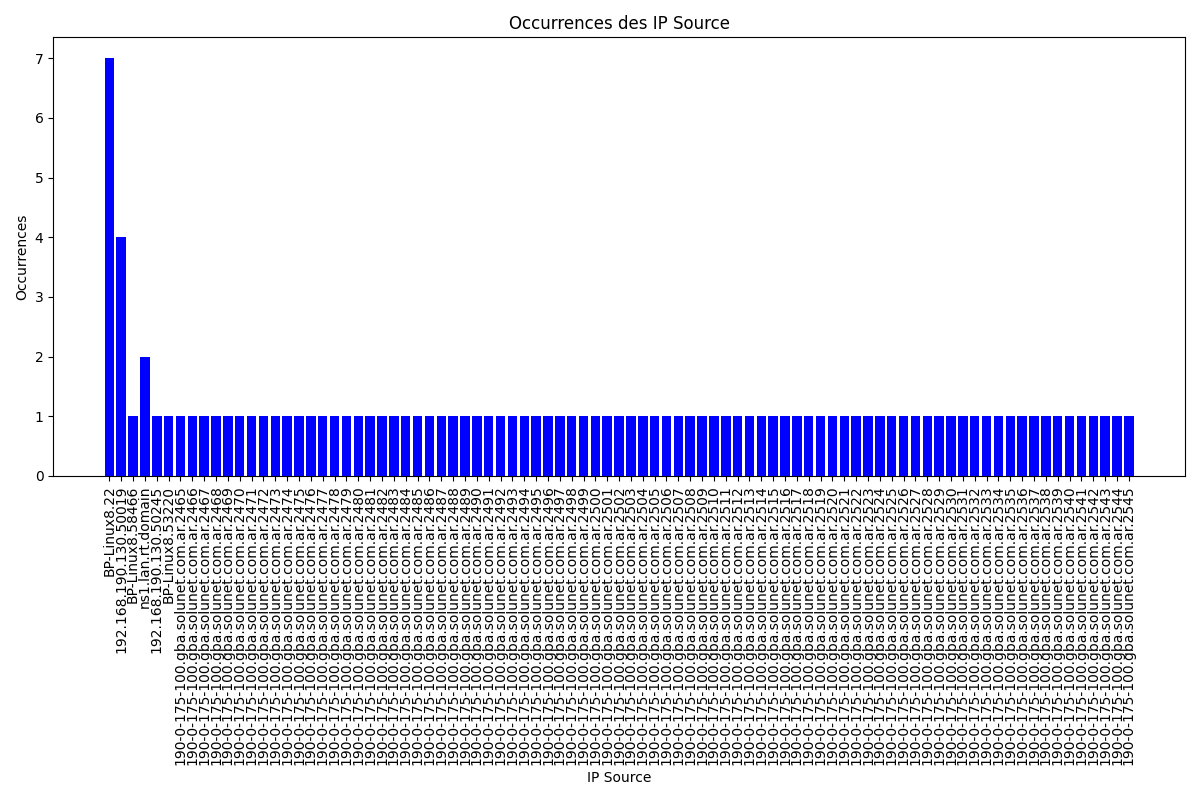
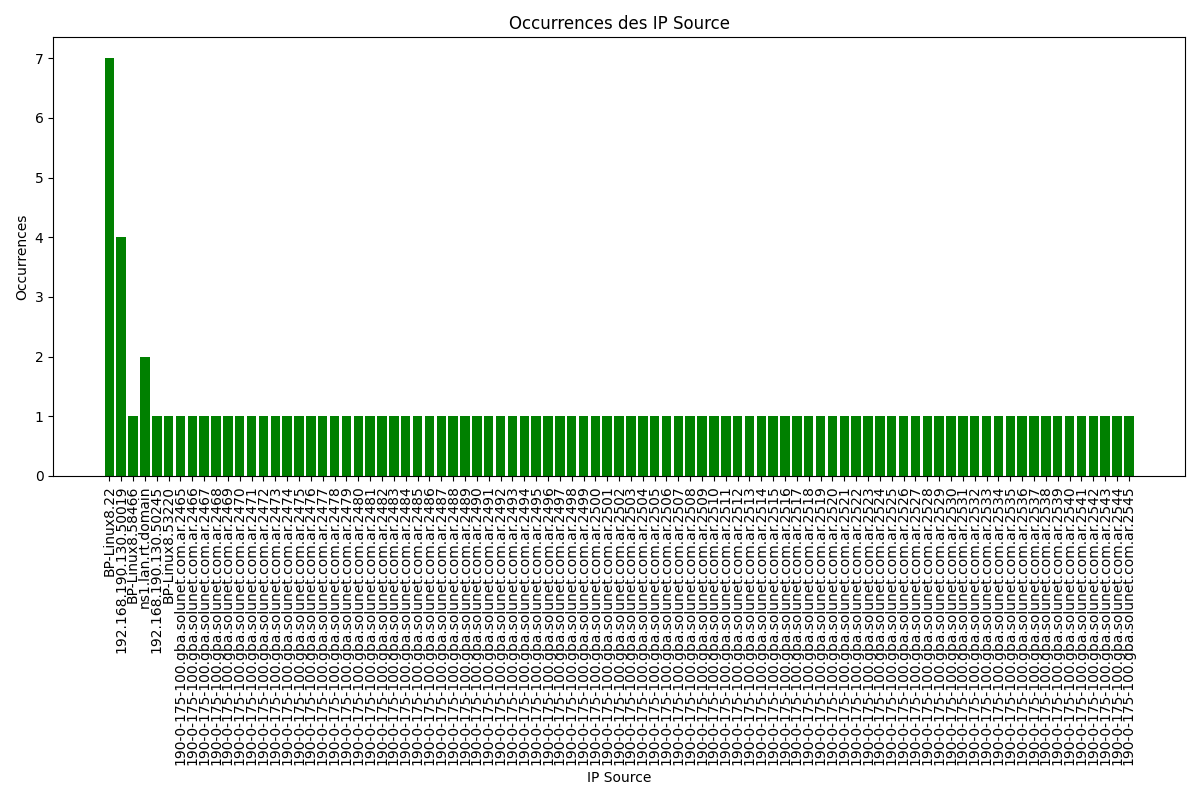
msj2001

Changed region(s): [[0.0617, 0.0625, 0.9558, 0.5938]]

diff --git a/results/analyse_trames.html b/results/analyse_trames.html
@@ -1,0 +1,100 @@
+
+    <!DOCTYPE html>
+    <html lang="fr">
+    <head>
+        <meta charset="UTF-8">
+        <meta name="viewport" content="width=device-width, initial-scale=1.0">
+        <title>Analyse des Trames</title>
+        <style>
+            body {
+                font-family: 'Roboto', sans-serif;
+                background-color: #f7f7f7;
+                margin: 0;
+                padding: 0;
+                color: #333;
+            }
+            h1 {
+                background-color: #2980b9;
+                color: white;
+                padding: 20px;
+                text-align: center;
+                margin: 0;
+                box-shadow: 0 4px 6px rgba(0,0,0,0.1);
+            }
+            h2 {
+                color: #27ae60;
+                margin-bottom: 10px;
+            }
+            h3 {
+                color: #e74c3c;
+            }
+            .container {
+                width: 80%;
+                margin: 20px auto;
+                padding: 20px;
+                background-color: white;
+                box-shadow: 0 4px 10px rgba(0, 0, 0, 0.1);
+                border-radius: 10px;
+            }
+            .section {
+                margin-bottom: 30px;
+            }
+            img {
+                max-width: 100%;
+                border-radius: 8px;
+                box-shadow: 0 4px 6px rgba(0,0,0,0.1);
+            }
+            a {
+                color: #2980b9;
+                text-decoration: none;
+                font-weight: bold;
+            }
+            a:hover {
+                text-decoration: underline;
+            }
+            ul {
+                padding-left: 20px;
+                list-style-type: square;
+            }
+            .result {
+                padding: 15px;
+                background-color: #ecf0f1;
+                border-radius: 8px;
+                box-shadow: 0 4px 6px rgba(0,0,0,0.1);
+            }
+            .result p {
+                font-size: 1.1em;
+            }
+        </style>
+    </head>
+    <body>
+        <h1>Analyse des Trames</h1>
+        <div class="container">
+            <div class="section">
+                <h2>Résumé de l'analyse</h2>
+                <p>Le fichier <code>fichier1000.txt</code> a été analysé avec succès.</p>
+            </div>
+
+            <div class="section">
+                <h2>Vulnérabilités détectées</h2>
+                <ul><li>Tentatives multiples de connexion sur le port HTTP détectées.</li></ul>
+            </div>
+
+            <div class="section">
+                <h2>Téléchargement des résultats</h2>
+                <p>Vous pouvez télécharger le fichier CSV contenant les données extraites : 
+                <a href="./results/trame.csv" target="_blank">trame.csv</a></p>
+            </div>
+
+            <div class="section">
+                <h2>Graphiques</h2>
+                <h3>Graphique des IP Source</h3>
+                <img src="./results/source_ip_occurrences.png" alt="Graphique des IP Source">
+                
+                <h3>Graphique des IP Destination</h3>
+                <img src="./results/destination_ip_occurrences.png" alt="Graphique des IP Destination">
+            </div>
+        </div>
+    </body>
+    </html>
+    

diff --git a/Affiche.py b/Affiche.py
@@ -48,6 +48,23 @@ def replace_ssh_with_22(ip_address):
 def replace_http_with_80(ip_address):
     return ip_address.replace('.http', '.80')
 
+# Fonction pour analyser les vulnérabilités
+def detect_vulnerabilities(source_ips, dest_ips):
+    vulnerabilities = []
+    
+    # Exemple simple: Détection des connexions sur le port SSH (22) ou HTTP (80)
+    ssh_attempts = [ip for ip in dest_ips if ".22" in ip]
+    http_attempts = [ip for ip in dest_ips if ".80" in ip]
+    
+    if len(ssh_attempts) > 10:  # Par exemple, plus de 10 tentatives de connexion SSH
+        vulnerabilities.append("Tentatives multiples de connexion sur le port SSH détectées.")
+    
+    if len(http_attempts) > 20:  # Plus de 20 tentatives sur le port HTTP
+        vulnerabilities.append("Tentatives multiples de connexion sur le port HTTP détectées.")
+    
+    # Vous pouvez ajouter d'autres critères de vulnérabilité ici selon vos besoins
+    return vulnerabilities
+
 # Fonction pour traiter le fichier et générer un fichier CSV avec les données
 def process_file(input_file_path, output_file_path):
     source_ips = []
@@ -75,6 +92,10 @@ def process_file(input_file_path, output_file_path):
 
     # Créer les graphiques après avoir traité les lignes
     create_graphs(source_ips, dest_ips)
+    
+    # Analyser les vulnérabilités
+    vulnerabilities = detect_vulnerabilities(source_ips, dest_ips)
+    return vulnerabilities
 
 # Fonction pour créer les graphiques
 def create_graphs(source_ips, dest_ips):
@@ -83,7 +104,7 @@ def create_graphs(source_ips, dest_ips):
 
     # Graphique des IP source
     plt.figure(figsize=(12, 8))
-    plt.bar(source_ip_counts.keys(), source_ip_counts.values(), color='blue')
+    plt.bar(source_ip_counts.keys(), source_ip_counts.values(), color='green')
     plt.xlabel('IP Source')
     plt.ylabel('Occurrences')
     plt.title('Occurrences des IP Source')
@@ -103,34 +124,127 @@ def create_graphs(source_ips, dest_ips):
     plt.savefig(os.path.join(RESULT_FOLDER, 'destination_ip_occurrences.png'))
     plt.clf()
 
-# Fonction pour générer le fichier Markdown avec les résultats
-def generate_markdown(input_file, csv_file):
-    markdown_content = f"# Analyse de Trames\n\n"
-    markdown_content += f"Le fichier `{input_file}` a été analysé avec succès.\n\n"
+# Fonction pour générer le fichier HTML avec les résultats
+def generate_html(input_file, csv_file, vulnerabilities):
+    # Vérification si des vulnérabilités ont été détectées
+    vuln_message = "<p>Aucune vulnérabilité détectée.</p>"
+    if vulnerabilities:
+        vuln_message = "<ul>" + "".join([f"<li>{vuln}</li>" for vuln in vulnerabilities]) + "</ul>"
+    
+    html_content = f"""
+    <!DOCTYPE html>
+    <html lang="fr">
+    <head>
+        <meta charset="UTF-8">
+        <meta name="viewport" content="width=device-width, initial-scale=1.0">
+        <title>Analyse des Trames</title>
+        <style>
+            body {{
+                font-family: 'Roboto', sans-serif;
+                background-color: #f7f7f7;
+                margin: 0;
+                padding: 0;
+                color: #333;
+            }}
+            h1 {{
+                background-color: #2980b9;
+                color: white;
+                padding: 20px;
+                text-align: center;
+                margin: 0;
+                box-shadow: 0 4px 6px rgba(0,0,0,0.1);
+            }}
+            h2 {{
+                color: #27ae60;
+                margin-bottom: 10px;
+            }}
+            h3 {{
+                color: #e74c3c;
+            }}
+            .container {{
+                width: 80%;
+                margin: 20px auto;
+                padding: 20px;
+                background-color: white;
+                box-shadow: 0 4px 10px rgba(0, 0, 0, 0.1);
+                border-radius: 10px;
+            }}
+            .section {{
+                margin-bottom: 30px;
+            }}
+            img {{
+                max-width: 100%;
+                border-radius: 8px;
+                box-shadow: 0 4px 6px rgba(0,0,0,0.1);
+            }}
+            a {{
+                color: #2980b9;
+                text-decoration: none;
+                font-weight: bold;
+            }}
+            a:hover {{
+                text-decoration: underline;
+            }}
+            ul {{
+                padding-left: 20px;
+                list-style-type: square;
+            }}
+            .result {{
+                padding: 15px;
+                background-color: #ecf0f1;
+                border-radius: 8px;
+                box-shadow: 0 4px 6px rgba(0,0,0,0.1);
+            }}
+            .result p {{
+                font-size: 1.1em;
+            }}
+        </style>
+    </head>
+    <body>
+        <h1>Analyse des Trames</h1>
+        <div class="container">
+            <div class="section">
+                <h2>Résumé de l'analyse</h2>
+                <p>Le fichier <code>{input_file}</code> a été analysé avec succès.</p>
+            </div>
 
-    # Ajouter le lien vers le fichier CSV
-    markdown_content += f"## Téléchargement des résultats\n\n"
-    markdown_content += f"Vous pouvez télécharger le fichier CSV contenant les données extraites [ici](./results/{csv_file}).\n\n"
+            <div class="section">
+                <h2>Vulnérabilités détectées</h2>
+                {vuln_message}
+            </div>
 
-    # Ajouter les graphiques
-    markdown_content += f"### Graphique des IP Source\n\n"
-    markdown_content += f"![Source IP Occurrences](./results/source_ip_occurrences.png)\n\n"
+            <div class="section">
+                <h2>Téléchargement des résultats</h2>
+                <p>Vous pouvez télécharger le fichier CSV contenant les données extraites : 
+                <a href="./results/{csv_file}" target="_blank">{csv_file}</a></p>
+            </div>
 
-    markdown_content += f"### Graphique des IP Destination\n\n"
-    markdown_content += f"![Destination IP Occurrences](./results/destination_ip_occurrences.png)\n\n"
+            <div class="section">
+                <h2>Graphiques</h2>
+                <h3>Graphique des IP Source</h3>
+                <img src="./results/source_ip_occurrences.png" alt="Graphique des IP Source">
+                
+                <h3>Graphique des IP Destination</h3>
+                <img src="./results/destination_ip_occurrences.png" alt="Graphique des IP Destination">
+            </div>
+        </div>
+    </body>
+    </html>
+    """
 
-    # Sauvegarder le fichier markdown
-    md_file_path = os.path.join(RESULT_FOLDER, 'analyse_trames.md')
-    with open(md_file_path, 'w', encoding='utf-8') as md_file:
-        md_file.write(markdown_content)
-    print(f"Fichier Markdown généré avec succès : {md_file_path}")
+    # Sauvegarder le fichier HTML
+    html_file_path = os.path.join(RESULT_FOLDER, 'analyse_trames.html')
+    with open(html_file_path, 'w', encoding='utf-8') as html_file:
+        html_file.write(html_content)
+    
+    print(f"Fichier HTML généré avec succès : {html_file_path}")
 
 # Spécifier le fichier d'entrée
 input_file = 'fichier1000.txt'  # Remplacer par le chemin réel de votre fichier
 csv_file = 'trame.csv'  # Nom du fichier CSV de sortie
 
 # Traiter le fichier et générer les résultats
-process_file(input_file, os.path.join(RESULT_FOLDER, csv_file))
+vulnerabilities = process_file(input_file, os.path.join(RESULT_FOLDER, csv_file))
 
-# Générer le fichier Markdown avec les résultats
-generate_markdown(input_file, csv_file)
+# Générer le fichier HTML avec les résultats
+generate_html(input_file, csv_file, vulnerabilities)
